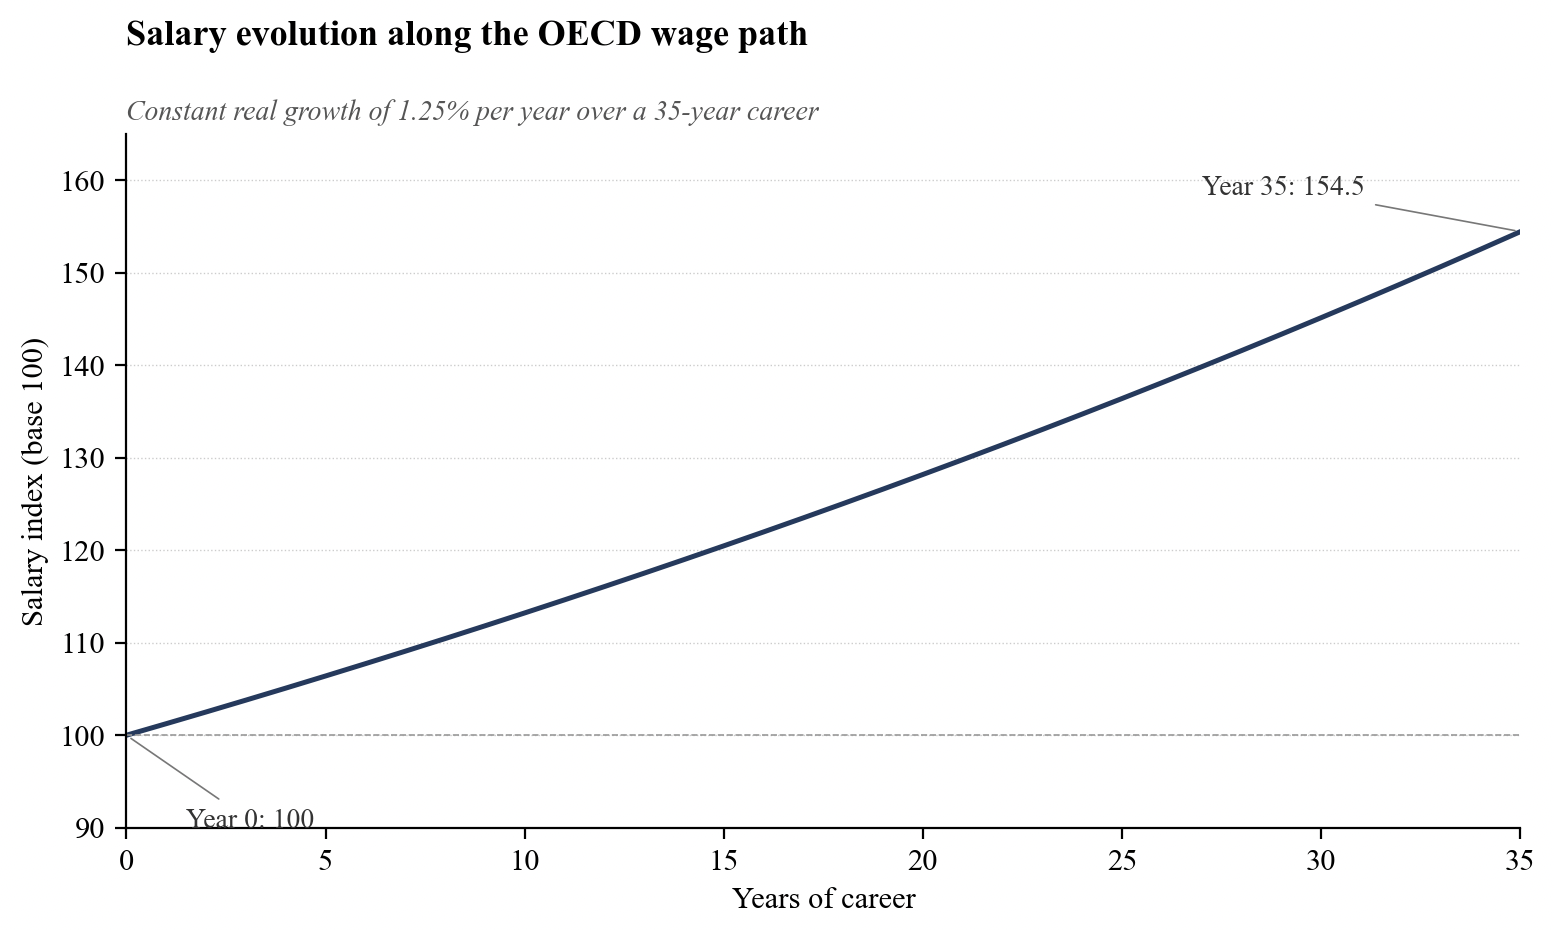
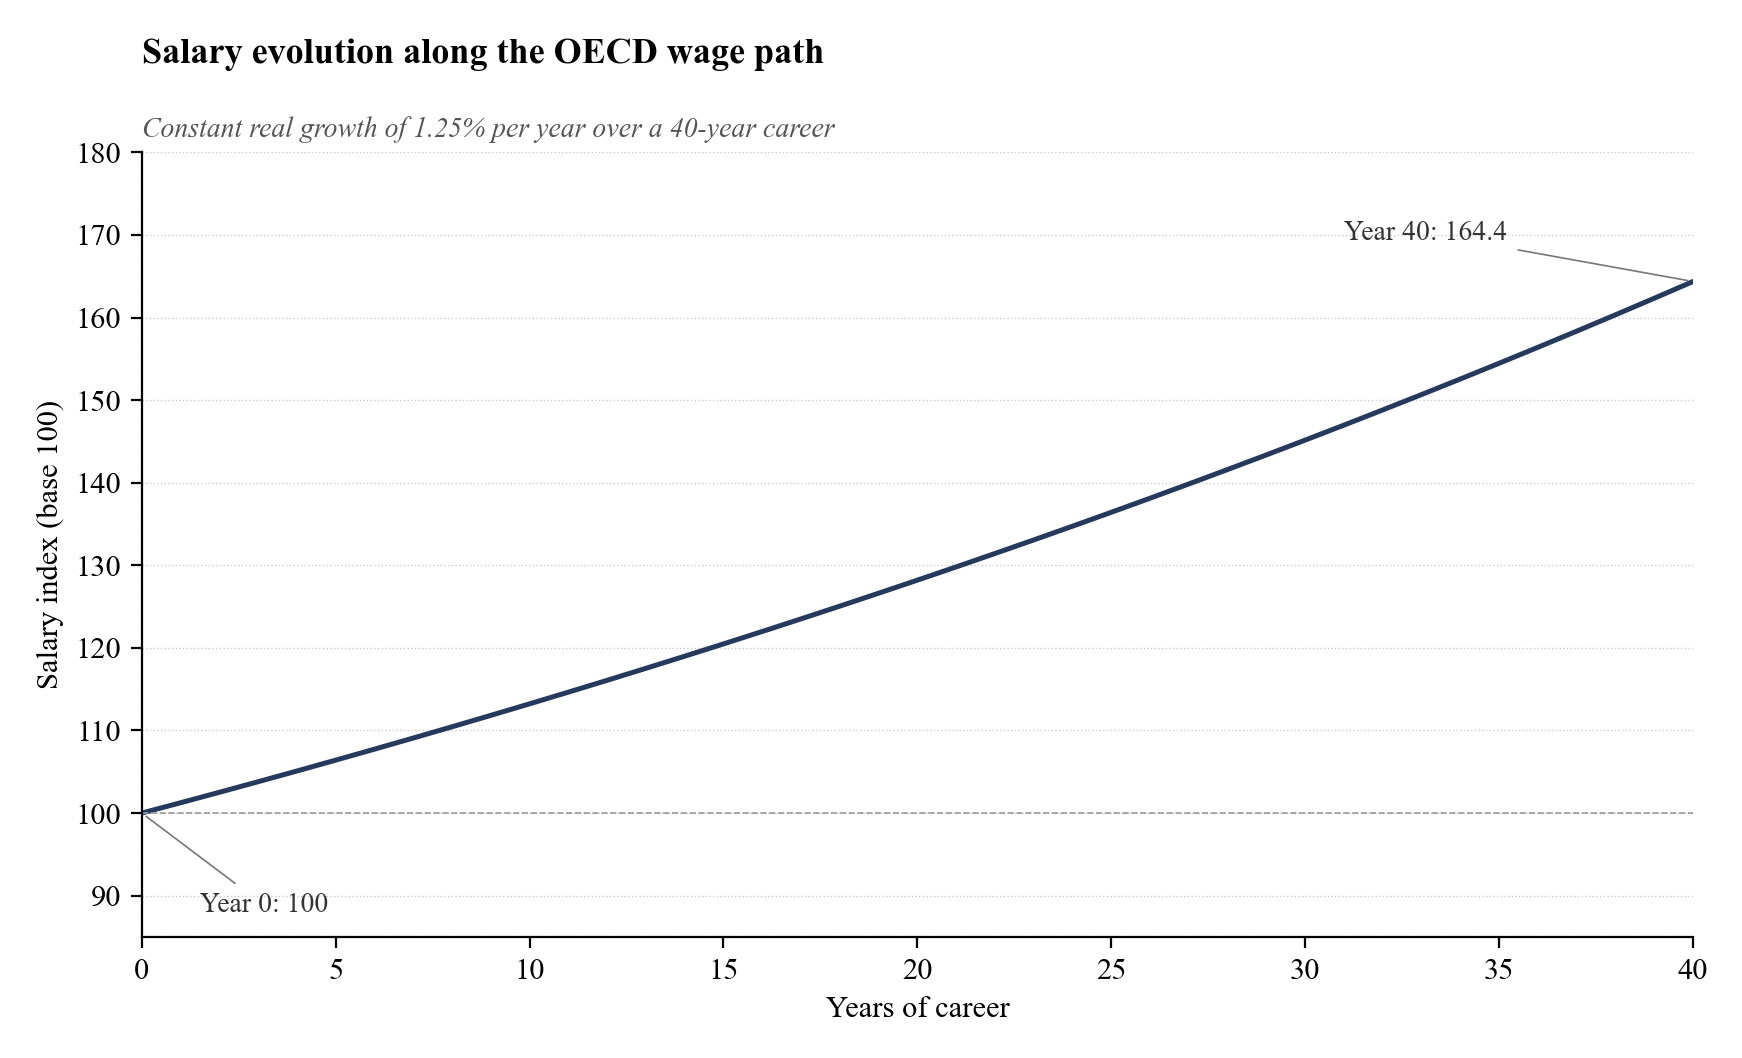
fix(paper): correct salary path to 40-year career at 1.25%
The previous salary_path.png had a 35-year x-axis ending at 154.5,
which contradicted the 40-year working horizon used throughout the
model (Tstart=25, TB=65, N=480 months). Replace with the figure
shared by Fernando showing 1.25% real growth over 40 years reaching
164.4, and update main.tex:219 to match.

diff --git a/paper/main.tex b/paper/main.tex
@@ -216,7 +216,7 @@ The application proceeds in three stages. First, we calibrate the required retur
 \subsection{Assumptions and Basic Calculations}
 
 \paragraph{Salary evolution.}
-We assume a deterministic real-salary path consistent with the OECD methodology used in \emph{Pensions at a Glance}: constant real annual growth of 1.25\% throughout the working career \cite{oecd2025}. Throughout the paper, all monetary quantities---salaries, contributions, and accumulated balances---are expressed in inflation-adjusted Chilean pesos, so the growth rate refers strictly to real growth above inflation. For ease of interpretation, Figure~\ref{fig:salary-path} presents the salary path as an index normalized to 100 and illustrates the same growth assumption over a 35-year career, reaching 154.5 by the end of the horizon.
+We assume a deterministic real-salary path consistent with the OECD methodology used in \emph{Pensions at a Glance}: constant real annual growth of 1.25\% throughout the working career \cite{oecd2025}. Throughout the paper, all monetary quantities---salaries, contributions, and accumulated balances---are expressed in inflation-adjusted Chilean pesos, so the growth rate refers strictly to real growth above inflation. For ease of interpretation, we present the salary path as an index normalized to 100 at the age of labor-market entry ($\Tstart=25$). Under the baseline assumption it reaches approximately 164 by the statutory retirement age ($\TB=65$), as shown in Figure~\ref{fig:salary-path}.
 
 \begin{figure}[t]
   \centering